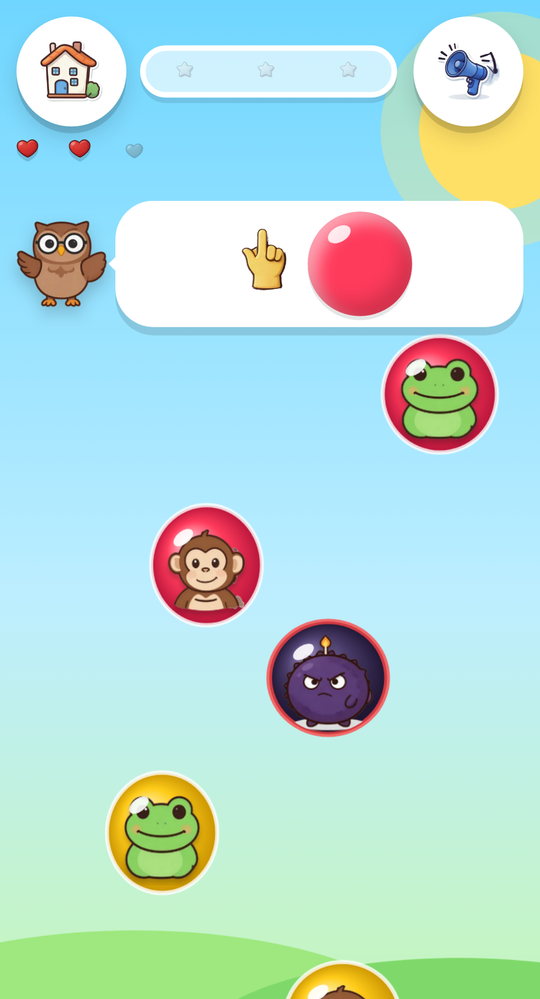
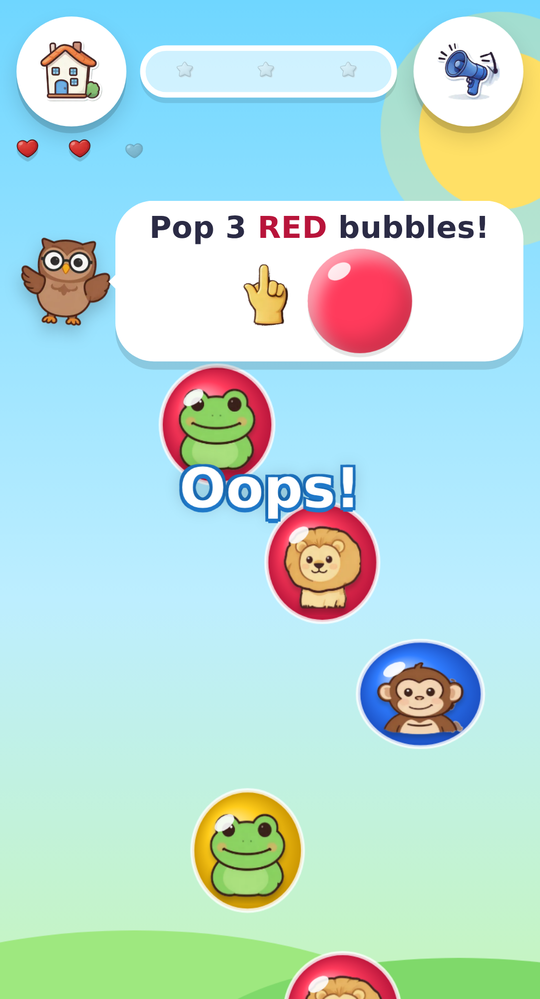
Replace the voice with on-screen words and add generated music
- Remove speech synthesis entirely
- The owl's bubble now shows the instruction as big text ("Pop 3 RED
  bubbles!", "Pop BLUE, then ELEPHANT!") with color words in their color,
  above the pointing hand and goal bubble
- Big pop-up words for feedback: "Round 3", "Oops!", "Faster!",
  "Try again!", "Free play!", "Safari star!"; the count floats up from
  each popped bubble; a message on the celebration card
- Labels under the difficulty buttons (Easy / Hard / Expert)
- Background music generated with Web Audio: looping pentatonic tune
  with chords, bass, kick and hi-hat during play, softer on the home
  screen, slightly faster in hard and expert; muted with the sound button
- Bump service worker cache, refresh screenshots and README

Claude-Session: https://claude.ai/code/session_01DuBLNV4JqtdZShGPyseqT7

Changed region(s): [[0.0296, 0.1862, 0.9778, 0.7758], [0.1778, 0.7447, 0.563, 0.9309], [0.5037, 0.9309, 0.7407, 1.0]]

diff --git a/index.html b/index.html
@@ -78,7 +78,7 @@ h1{ font-size: clamp(26px, 7.6vw, 38px); margin:0 0 0 10px; font-weight:900; col
 #guide-face{ font-size:66px; line-height:1; display:flex; transform-origin:50% 100%; filter: drop-shadow(0 6px 6px rgba(0,0,0,.2)); animation: bob 2.6s ease-in-out infinite; }
 #guide-face.talk{ animation: talk .45s ease-in-out 3; }
 #guide-face.oops{ animation: wiggle .5s ease-in-out; }
-#speech{ flex:1; background:#fff; border-radius:28px; min-height:80px; padding:8px 14px; display:flex; align-items:center; justify-content:center; gap:12px;
+#speech{ flex:1; background:#fff; border-radius:28px; min-height:80px; padding:8px 12px 6px; display:flex; flex-direction:column; align-items:center; justify-content:center; gap:2px;
   box-shadow: 0 6px 0 rgba(0,0,0,.12); position:relative; }
 #speech::before{ content:''; position:absolute; left:-16px; top:50%; margin-top:-11px; border:11px solid transparent; border-right-color:#fff; }
 #speech .hand{ font-size:46px; line-height:1; display:flex; animation: point 1.1s ease-in-out infinite; }
@@ -89,6 +89,18 @@ h1{ font-size: clamp(26px, 7.6vw, 38px); margin:0 0 0 10px; font-weight:900; col
 .gb::after{ content:''; position:absolute; left:12px; top:9px; width:14px; height:9px; border-radius:50%; background:rgba(255,255,255,.85); transform:rotate(-30deg); }
 .gb.rainbow{ background: conic-gradient(#ff3b5c,#ffcc1a,#2fd15f,#2f7cff,#9b4dff,#ff3b5c); }
 #speech.pop{ animation: popIn .5s cubic-bezier(.34,1.56,.64,1); }
+#speech .say{ font-size: clamp(18px, 5.6vw, 24px); font-weight:900; text-align:center; line-height:1.15; letter-spacing:.2px; color:var(--ink); }
+#speech .say .cw{ text-shadow: 0 1px 0 rgba(255,255,255,.6); }
+#speech .icons{ display:flex; align-items:center; justify-content:center; gap:12px; }
+#toast{ position:absolute; left:0; right:0; top:46%; text-align:center; pointer-events:none; z-index:6; font-size: clamp(34px, 10vw, 52px); font-weight:900; color:#fff;
+  text-shadow: 0 3px 0 #1f78c8, 0 0 12px rgba(0,0,0,.25), -2px -2px 0 #1f78c8, 2px -2px 0 #1f78c8, -2px 2px 0 #1f78c8, 2px 2px 0 #1f78c8; opacity:0; transform:scale(.6); }
+#toast.on{ animation: toastIn .55s cubic-bezier(.34,1.56,.64,1) forwards; }
+#toast.out{ animation: toastOut .3s ease-in forwards; }
+.dopt{ display:flex; flex-direction:column; align-items:center; gap:6px; }
+.dl{ font-size:15px; font-weight:800; color:#fff; text-shadow: 0 2px 0 #1f78c8, 0 3px 8px rgba(0,0,0,.25); letter-spacing:.3px; }
+#ctext{ font-size: clamp(22px, 6.5vw, 30px); font-weight:900; color:var(--ink); text-align:center; line-height:1.1; }
+@keyframes toastIn{ 0%{ opacity:0; transform:scale(.6) } 100%{ opacity:1; transform:scale(1) } }
+@keyframes toastOut{ 0%{ opacity:1; transform:scale(1) } 100%{ opacity:0; transform:scale(1.15) translateY(-20px) } }
 
 /* ---------- CELEBRATE ---------- */
 #celebrate{ justify-content:center; pointer-events:none; z-index:8; }
@@ -117,6 +129,7 @@ img.art{ display:block; width:1em; height:1em; object-fit:contain; pointer-event
 
 /* ---------- DIFFICULTY ---------- */
 #diffs{ display:flex; gap:12px; align-items:center; justify-content:center; margin-bottom:4px; }
+#diffs{ align-items:flex-start; }
 #diffs .btn{ min-width:60px; min-height:60px; width:60px; height:60px; font-size:30px; opacity:.72; transform:scale(.9); transition: transform .2s cubic-bezier(.34,1.56,.64,1), opacity .2s, box-shadow .2s; }
 #diffs .btn.on{ opacity:1; transform:scale(1.18); box-shadow: 0 0 0 5px #fff, 0 5px 0 5px rgba(0,0,0,.12), 0 8px 16px rgba(0,0,0,.18); }
 #diffs .btn[data-diff="hard"].on{ background:#ffb020; }
@@ -166,6 +179,7 @@ img.art{ display:block; width:1em; height:1em; object-fit:contain; pointer-event
   #diffs{ flex-direction:column; gap:14px; margin:0; }
   #row2{ margin-top:4px; }
   #guide{ margin-top:6px; } #speech{ min-height:64px; } #guide-face{ font-size:50px; }
+  .dl{ display:none; }
 }
 </style>
 </head>
@@ -178,9 +192,9 @@ img.art{ display:block; width:1em; height:1em; object-fit:contain; pointer-event
     <div id="book" aria-label="Sticker book"></div>
     <button id="play" class="btn" data-testid="play" aria-label="Play"><img class="art" src="art/next.webp" alt="" data-fb="▶"></button>
     <div id="diffs" aria-label="Difficulty">
-      <button class="btn small" data-diff="easy" data-testid="diff-easy" aria-label="Easy"><img class="art" src="art/chick.webp" alt="" data-fb="🐣"></button>
-      <button class="btn small" data-diff="hard" data-testid="diff-hard" aria-label="Hard"><img class="art" src="art/flame.webp" alt="" data-fb="🔥"></button>
-      <button class="btn small" data-diff="expert" data-testid="diff-expert" aria-label="Expert"><img class="art" src="art/bolt.webp" alt="" data-fb="⚡"></button>
+      <div class="dopt"><button class="btn small" data-diff="easy" data-testid="diff-easy" aria-label="Easy"><img class="art" src="art/chick.webp" alt="" data-fb="🐣"></button><span class="dl">Easy</span></div>
+      <div class="dopt"><button class="btn small" data-diff="hard" data-testid="diff-hard" aria-label="Hard"><img class="art" src="art/flame.webp" alt="" data-fb="🔥"></button><span class="dl">Hard</span></div>
+      <div class="dopt"><button class="btn small" data-diff="expert" data-testid="diff-expert" aria-label="Expert"><img class="art" src="art/bolt.webp" alt="" data-fb="⚡"></button><span class="dl">Expert</span></div>
     </div>
   </section>
 
@@ -197,11 +211,13 @@ img.art{ display:block; width:1em; height:1em; object-fit:contain; pointer-event
     <div class="card">
       <div id="celebrate-sticker" class="big-sticker"></div>
       <div id="celebrate-book"></div>
+      <div id="ctext">You did it!</div>
       <div class="stars" id="cstars"><span><img class="art" src="art/star.webp" alt="" data-fb="⭐"></span><span><img class="art" src="art/star.webp" alt="" data-fb="⭐"></span><span><img class="art" src="art/star.webp" alt="" data-fb="⭐"></span></div>
       <button id="next" class="btn" data-testid="next" aria-label="Next"><img class="art" src="art/next.webp" alt="" data-fb="➡"></button>
     </div>
   </section>
 
+  <div id="toast" aria-live="polite"></div>
   <button id="mute" class="btn small" data-testid="mute" aria-label="Sound on" aria-pressed="false"><img class="art" src="art/sound.webp" alt="" data-fb="🔊"></button>
 </div>
 
@@ -210,7 +226,6 @@ img.art{ display:block; width:1em; height:1em; object-fit:contain; pointer-event
 'use strict';
 const $ = s => document.querySelector(s);
 const KEY = 'bps.v2', OLD_KEY = 'bps.v1';
-const NUM = ['zero','one','two','three','four','five','six','seven','eight','nine','ten','eleven','twelve'];
 const COLORS = {
   red:    ['#ff3b5c','#ffc0cb','#b8143a'],
   blue:   ['#2f7cff','#bcd6ff','#1b4fc2'],
@@ -245,8 +260,8 @@ const ROUNDS = [
 const FREE = { free:true, count:10, max:10, speed:1.3, colors:Object.keys(COLORS).filter(c=>c!=='bomb'), animals:STICKERS };
 /* difficulty: easy is the original game. hard/expert add hearts, bombs, ordered goals, speed, and (expert) a timer + colour-changing bubbles */
 const DIFFS = {
-  easy:   { speed:1.00, size:1.00, extra:0, bombs:0,    hearts:0, seqFrom:99, seq3From:99, timer:0,  shift:0,    ratio:0.45, minT:2, phrase:'Easy peasy!' },
-  hard:   { speed:1.45, size:0.86, extra:3, bombs:0.18, hearts:3, seqFrom:5,  seq3From:99, timer:0,  shift:0,    ratio:0.35, minT:2, phrase:'Hard mode! Watch out for bombs!' },
+  easy:   { speed:1.00, size:1.00, extra:0, bombs:0,    hearts:0, seqFrom:99, seq3From:99, timer:0,  shift:0,    ratio:0.45, minT:2, phrase:'Easy!' },
+  hard:   { speed:1.45, size:0.86, extra:3, bombs:0.18, hearts:3, seqFrom:5,  seq3From:99, timer:0,  shift:0,    ratio:0.35, minT:2, phrase:'Hard! Watch out!' },
   expert: { speed:1.85, size:0.76, extra:5, bombs:0.26, hearts:3, seqFrom:3,  seq3From:7,  timer:22, shift:0.30, ratio:0.28, minT:1, phrase:'Expert! Be quick!' }
 };
 const pick = a => a[(Math.random()*a.length)|0];
@@ -322,22 +337,50 @@ const sfx = {
   party(){ sfx.fanfare(); [1568,1760,2093].forEach((f,i)=>tone({freq:f, type:'triangle', dur:0.4, vol:0.1, delay:1.3+i*0.12})); }
 };
 
-/* ---------- speech ---------- */
-let speechTries=0;
-function say(text, soft){
-  if(muted){ guideTalk(); return; }
-  try{
-    const s=window.speechSynthesis; if(!s){ guideTalk(); return; }
-    if(soft && (s.speaking||s.pending)) return;   // do not interrupt the instruction
-    guideTalk();
-    s.cancel();
-    const u=new SpeechSynthesisUtterance(text); u.rate=0.95; u.pitch=1.2; u.lang='en-US';
-    setTimeout(()=>{ try{ s.speak(u); }catch(e){} }, 40);
-  }catch(e){}
-}
-function unlockMedia(){
-  audio();
-  if(speechTries<3){ speechTries++; try{ const s=window.speechSynthesis; if(s){ s.speak(new SpeechSynthesisUtterance('')); } }catch(e){} }
+/* ---------- music (generated with Web Audio: a looping tune, bass and drums; softer on the home screen) ---------- */
+const music = (()=>{
+  const LEAD=[76,79,81,79,76,74,72,74, 74,76,74,0,79,81,79,76, 81,84,81,79,76,79,81,0, 81,79,76,74,72,74,76,0];   // C major pentatonic, 4 bars
+  const ROOTS=[48,43,45,41], CHORDS=[[60,64,67],[59,62,67],[57,60,64],[57,60,65]];   // C  G  Am  F
+  let mode='off', step=0, nextT=0, timer=0, bus=null, noise=null;
+  const hz=m=>440*Math.pow(2,(m-69)/12);
+  function ensure(){ const a=audio(); if(!a) return null;
+    if(!bus){ bus=a.createGain(); bus.gain.value=0; const lp=a.createBiquadFilter(); lp.type='lowpass'; lp.frequency.value=2800; bus.connect(lp); lp.connect(master); }
+    return a; }
+  function note(a,t,midi,type,dur,vol){ const o=a.createOscillator(), g=a.createGain(); o.type=type; o.frequency.value=hz(midi);
+    g.gain.setValueAtTime(0.0001,t); g.gain.exponentialRampToValueAtTime(vol,t+0.02); g.gain.exponentialRampToValueAtTime(0.0001,t+dur);
+    o.connect(g); g.connect(bus); o.start(t); o.stop(t+dur+0.05); }
+  function kick(a,t){ const o=a.createOscillator(), g=a.createGain(); o.frequency.setValueAtTime(150,t); o.frequency.exponentialRampToValueAtTime(45,t+0.12);
+    g.gain.setValueAtTime(0.45,t); g.gain.exponentialRampToValueAtTime(0.0001,t+0.16); o.connect(g); g.connect(bus); o.start(t); o.stop(t+0.2); }
+  function hat(a,t,vol){ if(!noise){ noise=a.createBuffer(1,Math.round(a.sampleRate*0.06),a.sampleRate); const d=noise.getChannelData(0); for(let i=0;i<d.length;i++) d[i]=Math.random()*2-1; }
+    const src=a.createBufferSource(); src.buffer=noise; const hp=a.createBiquadFilter(); hp.type='highpass'; hp.frequency.value=7000; const g=a.createGain();
+    g.gain.setValueAtTime(vol,t); g.gain.exponentialRampToValueAtTime(0.0001,t+0.05); src.connect(hp); hp.connect(g); g.connect(bus); src.start(t); }
+  function bpm(){ return mode==='home' ? 92 : 112*(diff==='expert'?1.16:diff==='hard'?1.08:1); }
+  function schedule(){
+    const a=ensure(); if(!a || mode==='off') return;
+    const sd=60/bpm()/2;   // one eighth note
+    while(nextT < a.currentTime+0.18){
+      const s=step%32, bar=(step>>3)&3, beat=s&7, t=nextT, home=mode==='home';
+      const m=LEAD[s]; if(m){ note(a,t,m,'triangle',home?sd*1.8:sd*0.9,home?0.16:0.2); if(!home) note(a,t,m+12,'sine',sd*0.5,0.05); }
+      if(beat===0||beat===4) CHORDS[bar].forEach(c=>note(a,t,c,'triangle',sd*3.6,home?0.07:0.045));
+      if(!home){ if(beat%2===0) note(a,t,ROOTS[bar]+(beat%4===2?7:0),'square',sd*0.8,0.09); if(beat===0||beat===4) kick(a,t); if(beat%2===1) hat(a,t,0.12); }
+      step++; nextT+=sd;
+    }
+  }
+  function set(m){ if(m===mode) return; mode=m; const a=ensure(); if(!a) return;
+    if(m==='off'){ bus.gain.setTargetAtTime(0,a.currentTime,0.15); clearInterval(timer); timer=0; return; }
+    bus.gain.setTargetAtTime(muted?0:0.5,a.currentTime,0.25);
+    if(!timer){ nextT=a.currentTime+0.05; step=0; timer=setInterval(schedule,60); schedule(); } }
+  function volume(){ const a=ensure(); if(a&&bus) bus.gain.setTargetAtTime(muted||mode==='off'?0:0.5,a.currentTime,0.1); }
+  return { set, volume, mode:()=>mode };
+})();
+function musicFor(){ return screen==='play' ? 'play' : screen==='home' ? 'home' : 'off'; }
+function unlockMedia(){ if(audio()) music.set(musicFor()); }
+
+/* ---------- on-screen words (no voice: the owl's bubble shows the instruction, big words pop up for feedback) ---------- */
+let toastT=0;
+function toast(text, ms){
+  const el=els.toast; clearTimeout(toastT); el.textContent=text; el.classList.remove('on','out'); void el.offsetWidth; el.classList.add('on');
+  toastT=setTimeout(()=>{ el.classList.remove('on'); el.classList.add('out'); }, ms||900);
 }
 // pointerdown for Chrome/Android; touchend + click as fallbacks for WebKit user-activation rules
 document.addEventListener('pointerdown', unlockMedia, {passive:true});
@@ -488,7 +531,7 @@ function confettiBurst(big){
 
 /* ---------- UI ---------- */
 const els={ home:$('#home'), hud:$('#hud'), celebrate:$('#celebrate'), speech:$('#speech'), face:$('#guide-face'), fill:$('#bar-fill'), stars:$('#bar-stars'),
-  book:$('#book'), play:$('#play'), mute:$('#mute'), csticker:$('#celebrate-sticker'), cbook:$('#celebrate-book'), cstars:$('#cstars'),
+  book:$('#book'), play:$('#play'), mute:$('#mute'), csticker:$('#celebrate-sticker'), cbook:$('#celebrate-book'), cstars:$('#cstars'), ctext:$('#ctext'), toast:$('#toast'),
   hearts:$('#hearts'), tfill:$('#tbar-fill'), diffs:$('#diffs') };
 function showScreens(list){ ['home','hud','celebrate'].forEach(k=>els[k].classList.toggle('on', list.includes(k))); els.hud.classList.toggle('celebrating', list.includes('celebrate')); }
 let talkT=0;
@@ -505,7 +548,7 @@ function renderGoal(){
   if(cur.free){ html=hand+'<span class="gb big rainbow">'+artTag('star')+'</span>'; }
   else if(seq){ const k=progress%seq.length; html=hand+'<span class="seq">'+seq.map((g,i)=>goalBubble(g,i===k)).join(artTag('next','arrow'))+'</span>'; }
   else html=hand+goalBubble(cur,true);
-  els.speech.innerHTML=html; els.speech.classList.remove('pop'); void els.speech.offsetWidth; els.speech.classList.add('pop');
+  els.speech.innerHTML='<div class="say">'+goalText()+'</div><div class="icons">'+html+'</div>'; els.speech.classList.remove('pop'); void els.speech.offsetWidth; els.speech.classList.add('pop');
 }
 function updateBar(){
   els.fill.style.width=(goal?Math.min(1,progress/goal)*100:0)+'%';
@@ -530,26 +573,24 @@ function renderBook(){
     els.book.appendChild(d);
   }
   els.play.classList.toggle('free', nextUnfinished()===0);
-  [...els.diffs.children].forEach(b=>b.classList.toggle('on', b.dataset.diff===diff));
+  els.diffs.querySelectorAll('.btn').forEach(b=>b.classList.toggle('on', b.dataset.diff===diff));
 }
 function renderMute(){ els.mute.innerHTML=artTag(muted?'mute':'sound'); els.mute.setAttribute('aria-label', muted?'Sound off':'Sound on'); els.mute.setAttribute('aria-pressed', String(muted)); }
-function toggleMute(){ muted=!muted; save(); renderMute(); if(muted){ try{ window.speechSynthesis && window.speechSynthesis.cancel(); }catch(e){} } else { sfx.tick(); } }
+function toggleMute(){ muted=!muted; save(); renderMute(); music.volume(); if(!muted) sfx.tick(); }
 function setDifficulty(d, quiet){
   if(!DIFFS[d]) return; const changed=d!==diff; diff=d; D=DIFFS[d]; save();
   if(screen==='home'){ round=nextUnfinished()||1; cur=ROUNDS[round-1]; goal=cur.count; progress=0; }
   renderBook();
-  if(changed && !quiet){ sfx.tick(); say(D.phrase); }
+  if(changed && !quiet){ sfx.tick(); toast(D.phrase, 1100); }
 }
 
 /* ---------- flow ---------- */
-function desc(g){ if(g.color&&g.animal) return g.color+' '+g.animal; if(g.color) return g.color+' bubble'; return g.animal; }
-function goalPhrase(){
-  if(cur.free) return 'Free play! Pop them all!';
-  if(seq) return 'Pop a '+seq.map(desc).join(', then a ')+'!';
-  const n=NUM[goal]||String(goal);
-  if(cur.color&&cur.animal) return 'Pop '+n+' '+cur.color+' '+cur.animal+'s!';
-  if(cur.color) return 'Pop '+n+' '+cur.color+' bubbles!';
-  return 'Pop '+n+' '+cur.animal+'s!';
+function cw(c){ return '<span class="cw" style="color:'+COLORS[c][2]+'">'+c.toUpperCase()+'</span>'; }
+function goalText(){
+  if(cur.free) return 'Pop them all!';
+  if(seq) return 'Pop '+seq.map(g=>g.animal ? g.animal.toUpperCase() : cw(g.color)).join(', then ')+'!';
+  const thing = cur.animal ? cur.animal.toUpperCase()+(goal>1?'S':'') : (goal>1?'bubbles':'bubble');
+  return 'Pop '+goal+' '+(cur.color?cw(cur.color)+' ':'')+thing+'!';
 }
 function beginPlay(r0){
   nextIn=0; doneIn=0; resume=null; shake=0;
@@ -558,7 +599,7 @@ function beginPlay(r0){
   bubbles=[]; fx=[]; spawnT=0.3; bombT=0; screen='play';
   showScreens(['hud']); renderGoal(); updateBar(); renderHearts(); renderTimer(); measureHud();
   seedBubbles();
-  say(goalPhrase());
+  guideTalk(); music.set('play'); toast(cur.free ? 'Free play!' : 'Round '+round, 1000);
 }
 function startPlay(n,r0){ round=n; cur=ROUNDS[n-1]; beginPlay(r0); }
 function startFree(){ round=11; cur=FREE; beginPlay(); }
@@ -570,7 +611,8 @@ function goHome(party){
   if(screen==='play' && !cur.free && progress>0 && progress<goal) resume={round, progress, hearts, mistakes, diff};
   nextIn=0; doneIn=0; shake=0;
   screen='home'; bubbles=[]; fx=[]; spawnT=0; showScreens(['home']); renderBook();
-  if(party){ confettiBurst(true); sfx.party(); say('You collected every sticker! You are a safari star!'); }
+  music.set('home');
+  if(party){ confettiBurst(true); sfx.party(); toast('Safari star!', 2500); }
 }
 function starsFor(){ if(diff==='easy') return 3; return mistakes===0?3:(mistakes<=2?2:1); }
 function unlockNow(){ if(!cur.free){ const s=starsFor(); if((best[diff][round]||0)<s){ best[diff][round]=s; save(); } } }
@@ -586,24 +628,25 @@ function completeRound(){
   [...els.cstars.children].forEach((s,i)=>s.classList.toggle('dim', i>=stars));
   showScreens(['hud','celebrate']);
   confettiBurst(true); if(final) sfx.party(); else sfx.fanfare();
-  say(final ? 'You got all the stickers! Hooray!' : (stars===3 && diff!=='easy' ? 'Perfect! Three stars!' : pick(['Hooray! You did it!','Amazing!','Super pop!','Yay! A new sticker!'])));
+  els.ctext.textContent = final ? 'All the stickers!' : (stars===3 && diff!=='easy' ? 'Perfect!' : pick(['You did it!','Amazing!','Super pop!','New sticker!']));
+  music.set('off');
   nextIn = final?7:5.5;   // counted down in update(), so a hidden tab pauses it
 }
 function nextRound(){ nextIn=0; if(screen!=='celebrate') return; if(round>=10) goHome(true); else startPlay(round+1); }
-function freeFill(){ confettiBurst(false); sfx.fanfare(); say(pick(['Wow!','Super!','Pop pop pop!'])); progress=0; updateBar(); }
+function freeFill(){ confettiBurst(false); sfx.fanfare(); toast(pick(['Wow!','Super!','Pop pop pop!']), 1200); progress=0; updateBar(); }
 /* a mistake in hard/expert costs a heart; with no hearts left the round simply starts over (never a game over) */
 function penalty(why){
   mistakes++;
   if(D.hearts<=0 || cur.free) return;
   hearts--; renderHearts(true);
   if(hearts<=0) loseRound();
-  else if(why==='time') say('Faster!', true);
+  else toast(why==='time' ? 'Faster!' : 'Oops!', 800);
 }
 function loseRound(){
   for(const b of bubbles) if(!b.bomb) addPop(b);
   bubbles=[]; progress=0; hearts=D.hearts; timeLeft=D.timer; spawnT=0.5;
   renderGoal(); updateBar(); renderHearts(); renderTimer(); guideOops(); sfx.lose();
-  say('Oops! Try again!');
+  toast('Try again!', 1400);
   seedBubbles();
 }
 
@@ -621,11 +664,11 @@ function onTap(x,y){
     if(progress<goal){
       progress++; updateBar(); sfx.pop(progress/goal); if(D.timer>0) timeLeft=Math.min(D.timer, timeLeft+4);
       if(progress>=goal){ if(cur.free) freeFill(); else { unlockNow(); doneIn=0.65; } }   // sticker is safe the moment the bar fills
-      else if(seq){ renderGoal(); say(desc(tgt()), true); }
-      else say(NUM[progress]||String(progress), true);
+      fx.push({type:'text', x:best.x, y:best.y-best.r, text:String(progress), life:0.9, max:0.9});   // the count floats up from the bubble
+      if(seq) renderGoal();
     } else sfx.pop(1);
   } else {
-    best.wig=0.7; sfx.wrong(); guideOops(); penalty('wrong');
+    best.wig=0.7; sfx.wrong(); guideOops(); if(D.hearts<=0||cur.free) toast('Oops!', 600); penalty('wrong');
   }
 }
 canvas.addEventListener('pointerdown', e=>{ e.preventDefault(); onTap(e.clientX, e.clientY); });
@@ -637,7 +680,7 @@ els.play.addEventListener('pointerdown', e=>{ e.preventDefault(); sfx.tick(); st
 $('#home-btn').addEventListener('pointerdown', e=>{ e.preventDefault(); sfx.tick(); goHome(false); });
 $('#next').addEventListener('pointerdown', e=>{ e.preventDefault(); if(t-celebrateAt<0.7) return; sfx.tick(); nextRound(); });   // a mashing kid cannot skip the sticker moment
 els.mute.addEventListener('pointerdown', e=>{ e.preventDefault(); toggleMute(); });
-[...els.diffs.children].forEach(b=>b.addEventListener('pointerdown', e=>{ e.preventDefault(); setDifficulty(b.dataset.diff); }));
+els.diffs.querySelectorAll('.btn').forEach(b=>b.addEventListener('pointerdown', e=>{ e.preventDefault(); setDifficulty(b.dataset.diff); }));
 
 /* ---------- loop ---------- */
 let tickT=0;
@@ -694,6 +737,9 @@ function drawFx(f){
   else if(f.type==='flash'){ ctx.globalAlpha=(1-p)*0.9; ctx.fillStyle=f.color||'#fff7b0'; starPath(f.x,f.y,f.r*(0.9+p*1.6),f.r*(0.4+p*0.6),f.rot+p*1.2); ctx.fill(); ctx.globalAlpha=1; }
   else if(f.type==='stars'){ ctx.globalAlpha=Math.min(1,f.life/0.3); for(const q of f.parts){ ctx.fillStyle=q.color; starPath(q.x,q.y,q.size,q.size*0.45,q.rot); ctx.fill(); } ctx.globalAlpha=1; }
   else if(f.type==='drops'){ ctx.globalAlpha=1-p; ctx.fillStyle=f.color; for(const q of f.parts){ ctx.beginPath(); ctx.arc(q.x,q.y,q.size*(1-p*0.5),0,6.2832); ctx.fill(); } ctx.globalAlpha=1; }
+  else if(f.type==='text'){ const a=p<0.6?1:1-(p-0.6)/0.4, sc=1+0.5*Math.sin(Math.min(1,p*2)*Math.PI/2);
+    ctx.save(); ctx.translate(f.x,f.y-p*70); ctx.scale(sc,sc); ctx.globalAlpha=a; ctx.font='900 40px system-ui,sans-serif'; ctx.textAlign='center'; ctx.textBaseline='middle';
+    ctx.lineWidth=7; ctx.lineJoin='round'; ctx.strokeStyle='#1f78c8'; ctx.strokeText(f.text,0,0); ctx.fillStyle='#fff'; ctx.fillText(f.text,0,0); ctx.restore(); }
   else if(f.type==='animal'){ const yOff=-Math.sin(Math.min(1,p*1.2)*Math.PI)*80-p*40; const sc=1+0.7*Math.sin(Math.min(1,p*1.6)*Math.PI/2); const a=p<0.65?1:1-(p-0.65)/0.35;
     if(f.gen!==gen){ f.gen=gen; f.spr=sprite(f.name,Math.round(f.size)); }
     ctx.save(); ctx.translate(f.x,f.y+yOff); ctx.rotate(Math.sin(p*12)*0.15*(1-p)); drawSprite(f.spr,0,0,sc,a); ctx.restore(); }
@@ -725,8 +771,9 @@ function frame(now){
 document.addEventListener('visibilitychange', ()=>{
   last=performance.now();
   if(document.hidden){   // phone in a pocket: go quiet, timers are dt-based so they wait too
-    try{ window.speechSynthesis && window.speechSynthesis.cancel(); }catch(e){}
     try{ if(ac && ac.state==='running') ac.suspend().catch(()=>{}); }catch(e){}
+  } else {
+    try{ if(ac && ac.state==='suspended') ac.resume().catch(()=>{}); }catch(e){}
   }
 });
 window.addEventListener('pageshow', ()=>{ last=performance.now(); });
@@ -743,7 +790,7 @@ try{ if('serviceWorker' in navigator && /^https?:$/.test(location.protocol)){ wi
 /* ---------- tiny test hook ---------- */
 window.__bps = {
   state(){ const g=tgt(); return {
-    screen, round, progress, goal, difficulty:diff, hearts, mistakes, timeLeft:Math.round(timeLeft*10)/10,
+    screen, round, progress, goal, difficulty:diff, hearts, mistakes, timeLeft:Math.round(timeLeft*10)/10, music:music.mode(),
     target: Object.assign({}, g.color?{color:g.color}:{}, g.animal?{animal:g.animal}:{}, {count:goal}),
     sequence: seq ? seq.slice() : null,
     unlocked: unlockedList(), best: JSON.parse(JSON.stringify(best)), muted,

diff --git a/sw.js b/sw.js
@@ -1,5 +1,5 @@
 /* Bubble Pop Safari - cache-first service worker */
-const CACHE = 'bps-cache-v4';
+const CACHE = 'bps-cache-v5';
 const FILES = ['./', './index.html', './manifest.webmanifest', './icon-192.png', './icon-512.png',
   './art/lion.webp', './art/monkey.webp', './art/elephant.webp', './art/panda.webp', './art/tiger.webp', './art/frog.webp',
   './art/koala.webp', './art/zebra.webp', './art/giraffe.webp', './art/hippo.webp', './art/owl.webp', './art/bomb.webp',

diff --git a/README.md b/README.md
@@ -1,6 +1,6 @@
 # Bubble Pop Safari 🦁🫧
 
-A mobile web game for kids aged 4 to 8. Colorful animal bubbles float up the screen; the friendly owl asks for "the RED bubbles" or "3 lions"; tap the right ones to fill the bar, get a confetti party, and earn a sticker. No ads, no network, nothing to read.
+A mobile web game for kids aged 4 to 8. Colorful animal bubbles float up the screen; the friendly owl's bubble says "Pop 3 RED bubbles!" or "Pop 3 LIONS!" in big simple words, with the color word shown in its color and a picture of the bubble to pop; tap the right ones to fill the bar, get a confetti party, and earn a sticker. No voice, no ads, no network. A cheerful looping tune plays along, generated in the browser.
 
 Ten rounds, ten stickers, progress saved on the phone. Works offline and can be added to the home screen on iOS and Android.
 
@@ -67,7 +67,9 @@ ngrok http 8080                  # terminal 2, copy the https URL
 
 Bubbles get a little more numerous and a little faster each round. In hard and expert, later rounds ask for an ordered sequence instead, and the goal pill shows the steps with the current one highlighted. After the tenth sticker of a difficulty the Play button turns into free play for it.
 
-Nothing needs to be read: the owl shows a pointing hand and the bubble to pop, says it out loud, and the star bar shows how many are left. An accidental tap on the Home button keeps the round's progress.
+Everything is on screen in short words a young reader can manage: the owl's bubble shows the instruction and the bubble to pop, big words like "Round 3", "Oops!", "Faster!" and "Try again!" pop up in the middle, the count floats up from each popped bubble, and the star bar shows how many are left. There is no voice. An accidental tap on the Home button keeps the round's progress.
+
+The music is generated with Web Audio (a pentatonic tune over C, G, Am, F with bass, kick and hi-hat during play, a softer version on the home screen, a little faster in hard and expert), so there are no audio files to download. The sound button mutes music and effects together.
 
 ## Development
 
